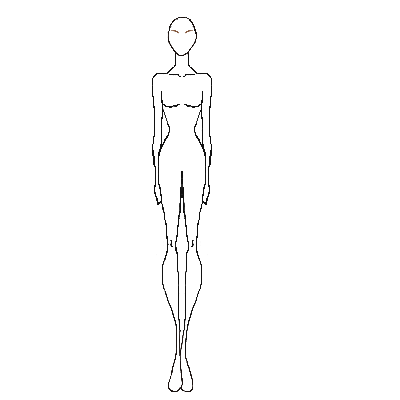
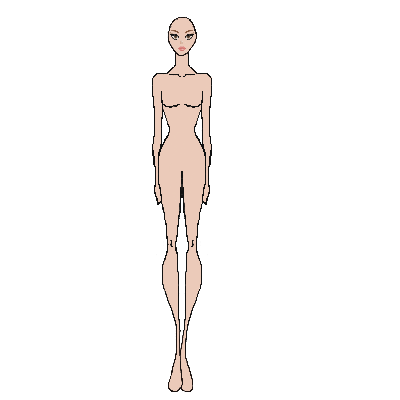
update

Changed region(s): [[0.36, 0.03, 0.54, 0.99]]

diff --git a/asm3/script.js b/asm3/script.js
@@ -1,64 +1,3 @@
-const stage = new Konva.Stage({
-  container: "model-box",
-  width: 900,
-  height: 500,
-});
-
-const layer = new Konva.Layer();
-stage.add(layer);
-
-const baseModel = new Image();
-baseModel.src = "model/base.PNG";
-baseModel.onload = function () {
-  const model = new Konva.Image({
-    image: baseModel,
-    x: 100,
-    y: 25,
-    draggable: true,
-  });
-  layer.add(model);
-  layer.draw();
-};
-
-const appearanceList = [
-  "cheeks1.PNG",
-  "cheeks2.PNG",
-  "cheeks3.PNG",
-  "eye1.PNG",
-  "eyes2.PNG",
-  "eyes3.PNG",
-  "eyes4.PNG",
-  "hair1.PNG",
-  "hair2.PNG",
-  "hair3.PNG",
-  "hair4.PNG",
-  "hair5.PNG",
-  "lips1.PNG",
-  "lips2.PNG",
-  "lips3.PNG",
-  "lips4.PNG",
-  "lips5.PNG",
-  "skin1.PNG",
-  "skin2.PNG",
-  "skin3.PNG",
-  "skin4.PNG",
-];
-
-appearanceList.forEach((file) => {
-  const img = new Image();
-  img.src = "model/" + file;
-  img.onload = function () {
-    const appearance = new Konva.Image({
-      image: img,
-      x: 100,
-      y: 25,
-      draggable: true,
-    });
-    layer.add(appearance);
-    layer.draw();
-  };
-});
-
 // Tone js
 const bubbleSynth = new Tone.MembraneSynth().toDestination();
 
@@ -99,7 +38,7 @@ ambientPlayer.loop = true;
 
 const startBtn = document.getElementById("start-button");
 const startScreen = document.getElementById("start-screen");
-const mainGame = document.getElementsByClassName("container");
+const mainGame = document.querySelector(".container");
 
 startBtn.addEventListener("click", async () => {
   await Tone.start();
@@ -107,3 +46,136 @@ startBtn.addEventListener("click", async () => {
   startScreen.style.display = "none";
   mainGame.style.display = "block";
 });
+
+// Toggle
+const skinBtn = document.getElementById("skinBtn");
+const skinBox = document.getElementById("skin-box");
+
+skinBtn.addEventListener("click", () => {
+  skinBox.classList.toggle("visible");
+});
+
+const eyeBtn = document.getElementById("eyeBtn");
+const eyeBox = document.getElementById("eyes-box");
+
+eyeBtn.addEventListener("click", () => {
+  eyeBox.classList.toggle("visible");
+});
+
+// Main
+const stage = new Konva.Stage({
+  container: "model-box",
+  width: 900,
+  height: 500,
+});
+
+const layer = new Konva.Layer();
+stage.add(layer);
+
+let baseModelImage, frameImage;
+let skinImage = null;
+let model = null;
+
+// Load base model
+baseModelImage = new Image();
+baseModelImage.src = "model/base.PNG";
+
+frameImage = new Image();
+frameImage.src = "model/frame.PNG";
+
+baseModelImage.onload = function () {
+  model = new Konva.Image({
+    image: baseModelImage,
+    x: 100,
+    y: 25,
+    name: "model",
+  });
+  layer.add(model);
+  layer.draw();
+};
+
+// Handle skin changes
+document.querySelectorAll(".skin-option").forEach((skinOption) => {
+  skinOption.addEventListener("click", () => {
+    const skinSrc = skinOption.getAttribute("data-src");
+
+    const newSkinImage = new Image();
+    newSkinImage.src = skinSrc;
+
+    newSkinImage.onload = function () {
+      // Remove old skin if it exists
+      if (skinImage) {
+        skinImage.destroy();
+      }
+
+      // Add new skin (always on top of base model)
+      skinImage = new Konva.Image({
+        image: newSkinImage,
+        x: 100,
+        y: 25,
+        name: "skin",
+      });
+      layer.add(skinImage);
+
+      // Remove and re-add frame to keep it always on top
+      const oldFrame = layer.findOne(".frame");
+      if (oldFrame) {
+        oldFrame.destroy();
+      }
+
+      const frame = new Konva.Image({
+        image: frameImage,
+        x: 100,
+        y: 25,
+        name: "frame",
+        listening: false,
+      });
+      layer.add(frame);
+
+      layer.draw();
+    };
+  });
+});
+
+let eyeImage = null;
+document.querySelectorAll(".eye-option").forEach((eyeOption) => {
+  eyeOption.addEventListener("click", () => {
+    const eyeSrc = eyeOption.getAttribute("data-src");
+
+    const newEyeImage = new Image();
+    newEyeImage.src = eyeSrc;
+
+    newEyeImage.onload = function () {
+      // Remove the previous eye image
+      if (eyeImage) {
+        eyeImage.destroy();
+      }
+
+      // Add new eye image
+      eyeImage = new Konva.Image({
+        image: newEyeImage,
+        x: 100, // Adjust as needed
+        y: 25,
+        name: "eye",
+      });
+
+      layer.add(eyeImage);
+      bringFrameToFront(); // If you use frame layering
+      layer.draw();
+    };
+  });
+});
+
+function bringFrameToFront() {
+  const oldFrame = layer.findOne(".frame");
+  if (oldFrame) oldFrame.destroy();
+
+  const frame = new Konva.Image({
+    image: frameImage,
+    x: 100,
+    y: 25,
+    name: "frame",
+    listening: false,
+  });
+  layer.add(frame);
+}

diff --git a/asm3/index.html b/asm3/index.html
@@ -21,22 +21,82 @@
       <button id="start-button">Start</button>
     </div>
     <div class="container">
-      <div id="appearance-box" class="side-tab">
+      <div id="appearance-box">
+        <button id="skinBtn" class="items-button">
+          <img src="model/skin-icon.png" />
+        </button>
+        <button id="eyeBtn" class="items-button">
+          <img src="model/eyes-icon.PNG" />
+        </button>
+        <button class="items-button"><img src="model/lips-icon.PNG" /></button>
+        <button class="items-button">
+          <img src="model/cheeks-icon.PNG" />
+        </button>
+        <button class="items-button"><img src="model/hair-icon.PNG" /></button>
+      </div>
+      <div id="skin-box" class="option-box">
+        <img
+          class="skin-option options"
+          data-src="model/skin1.png"
+          src="model/skin1.PNG"
+        />
+        <img
+          class="skin-option options"
+          data-src="model/skin2.png"
+          src="model/skin2.png"
+        />
+        <img
+          class="skin-option options"
+          data-src="model/skin3.png"
+          src="model/skin3.png"
+        />
+        <img
+          class="skin-option options"
+          data-src="model/skin4.png"
+          src="model/skin4.png"
+        />
+      </div>
+      <div id="eyes-box" class="option-box">
+        <img
+          class="eye-option options"
+          data-src="model/eyes1.png"
+          src="model/eyes1.png"
+        />
+        <img
+          class="eye-option options"
+          data-src="model/eyes2.png"
+          src="model/eyes2.png"
+        />
+        <img
+          class="eye-option options"
+          data-src="model/eyes3.png"
+          src="model/eyes3.png"
+        />
+        <img
+          class="eye-option options"
+          data-src="model/eyes4.png"
+          src="model/eyes4.png"
+        />
+      </div>
+      <div id="model-box">
+        <img id="skinLayer" />
+        <img id="frameLayer" src="model/frame.PNG" />
+      </div>
+      <div id="clothes-box">
         <button class="items-button"><img src="model/skin-icon.png" /></button>
         <button class="items-button"><img src="model/eyes-icon.PNG" /></button>
         <button class="items-button"><img src="model/lips-icon.PNG" /></button>
-        <button class="items-button"><img src="model/hair-icon.jpg" /></button>
+        <button class="items-button">
+          <img src="model/cheeks-icon.PNG" />
+        </button>
+        <button class="items-button"><img src="model/hair-icon.PNG" /></button>
       </div>
-      <div id="model-box" class="side-tab"></div>
-      <div id="clothes-box"></div>
     </div>
     <div class="tabs">
-      <button class="tabs-button" onclick="toggleVisibility()">
-        Appearance
-      </button>
-      <button class="tabs-button">Clothes</button>
-      <button class="tabs-button">Reset</button>
       <button id="sound-on" class="tabs-button">🔈</button>
+      <button class="tabs-button">Undo</button>
+      <button class="tabs-button">Reset</button>
+      <button class="tabs-button">✔</button>
     </div>
   </body>
 </html>

diff --git a/asm3/style.css b/asm3/style.css
@@ -1,3 +1,11 @@
+@media (max-width: 768px) {
+  .container {
+    flex-direction: column;
+    width: 95vw;
+    height: auto;
+  }
+}
+
 #start-screen {
   position: absolute;
   top: 0;
@@ -77,6 +85,7 @@ body {
   justify-content: space-between;
   margin: 25px;
 }
+
 #appearance-box {
   background-color: rgb(218, 218, 218);
   height: 90%;
@@ -88,6 +97,51 @@ body {
   display: flex;
   flex-direction: column;
   justify-content: space-around;
+  position: relative;
+}
+
+#model-box,
+#clothes-box {
+  flex: 1 1 60%;
+  max-width: 60%;
+}
+
+.option-box {
+  visibility: hidden;
+  opacity: 0;
+  position: absolute;
+  top: 78px;
+  left: 200px;
+  background-color: rgb(218, 218, 218);
+  height: 622px;
+  width: 60px;
+  border-style: inset;
+  border-color: rgb(142, 145, 146);
+  box-shadow: 5px 5px 5px rgb(50, 50, 50);
+  display: flex;
+  flex-direction: column;
+  justify-content: space-around;
+  transition: visibility 0s, opacity 0.3s ease;
+  z-index: 100;
+}
+
+.option-box.visible {
+  visibility: visible;
+  opacity: 1;
+}
+
+.options {
+  border-style: none;
+  background-color: transparent;
+}
+
+.options:hover {
+  background-color: rgb(174, 174, 174);
+  transition: 0.25s ease;
+}
+
+#frameLayer {
+  display: none;
 }
 
 #clothes-box {
@@ -138,6 +192,9 @@ body {
   font-style: normal;
   font-size: 1.2rem;
   margin: 5px;
+  display: flex;
+  align-items: center;
+  justify-content: center;
 }
 
 .tabs-button:hover {
